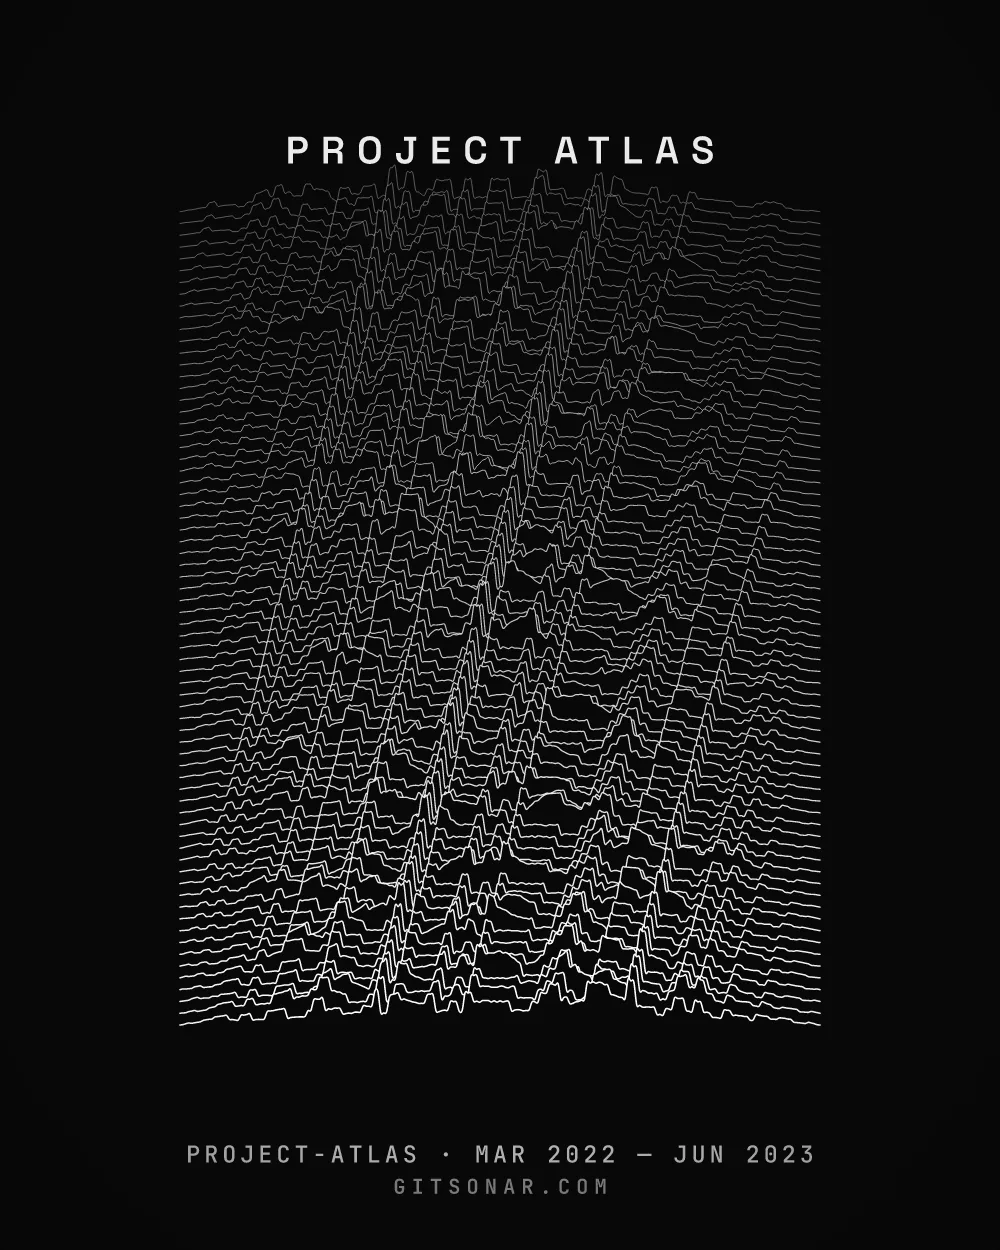
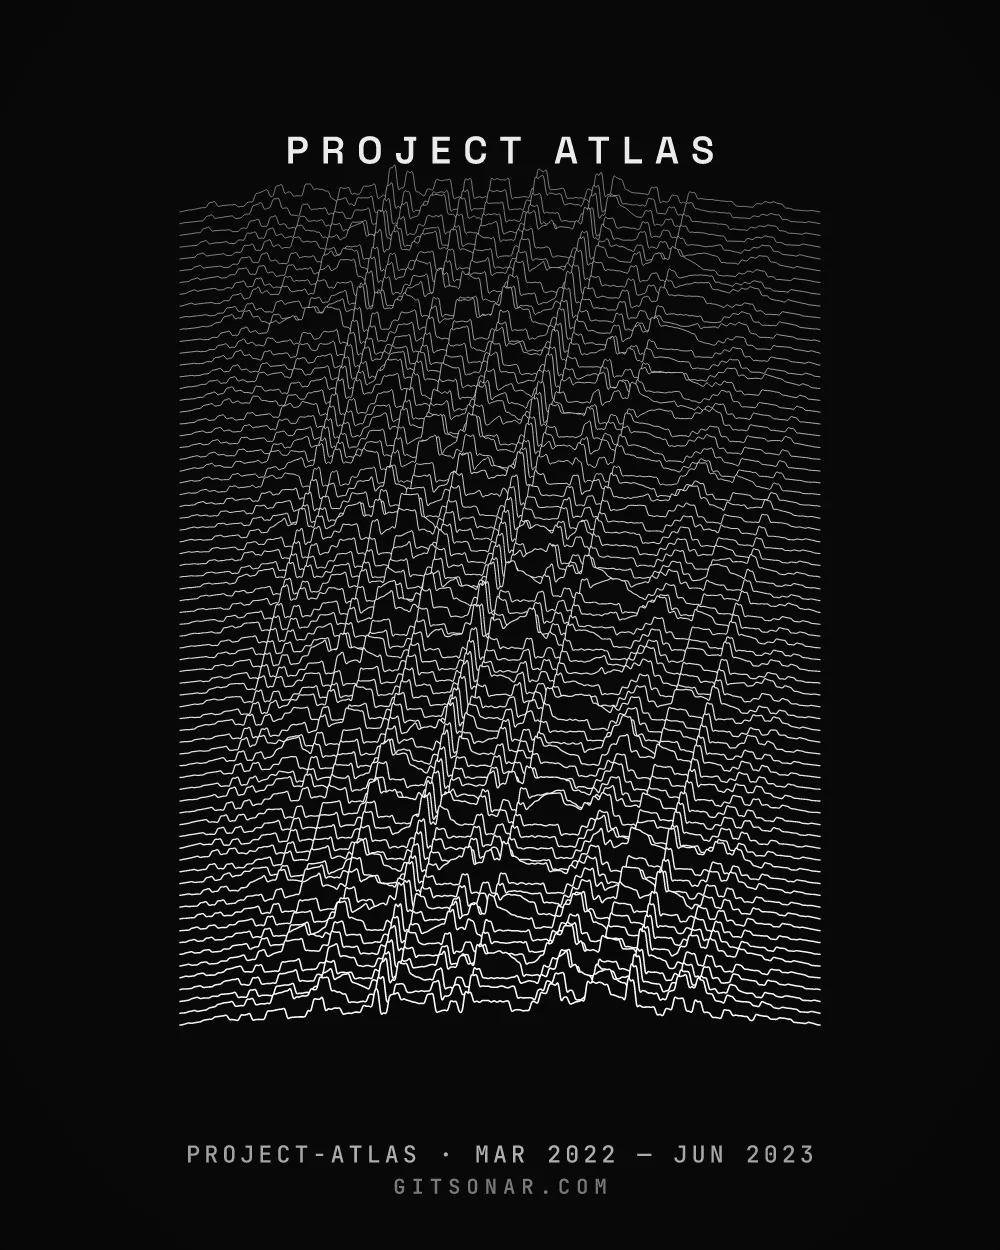
ui-hill-climb: round 8
Blind A/B (Claude Opus 5.5, fresh context): 7 views preferred, 6 not; the six are reverted in round 9.

diff --git a/src/styles/studio.css b/src/styles/studio.css
@@ -151,8 +151,26 @@ html[data-lights="off"] .ps-thumb__art {
   transition: transform 0.65s var(--ease-out);
 }
 
+/* "On the bench": a pale work surface runs along the bottom of the booth, with
+   the shadow line where it meets the back wall. */
+.ps-stage::before {
+  content: "";
+  position: absolute;
+  inset: auto 0 5.5rem 0;
+  height: 17%;
+  background:
+    linear-gradient(180deg, rgba(20, 22, 24, 0.22), rgba(20, 22, 24, 0) 0.7rem),
+    linear-gradient(180deg, rgba(255, 255, 255, 0.34), rgba(255, 255, 255, 0.12));
+  transition: opacity 0.4s ease;
+}
+
+.is-wall .ps-stage::before {
+  opacity: 0;
+}
+
 .ps-canvas {
   display: block;
+  position: relative;
   box-shadow: 0 1.8rem 3.2rem rgba(20, 22, 24, 0.38), 0 0.25rem 0.6rem rgba(20, 22, 24, 0.35);
 }
 
@@ -358,20 +376,27 @@ html[data-lights="off"] .is-wall .ps-stage {
   background: rgba(var(--paper-rgb), 0.9);
 }
 
-.ps-framing label {
-  display: flex;
-  align-items: center;
-  gap: 0.35rem;
-  font-size: 0.82rem;
-  font-weight: 600;
+.ps-framing__sep {
+  width: 1px;
+  margin: 0.3rem 0.2rem;
+  background: var(--line-2);
 }
 
-.ps-framing label.is-off {
-  opacity: 0.45;
+.ps-framing .g-seg button:disabled {
+  opacity: 0.4;
+  cursor: not-allowed;
 }
 
-.ps-framing input {
-  accent-color: var(--ink);
+/* Controls mounted on the stage keep their daylight look after hours,
+   because the viewing booth they sit on does not change. */
+.ps-where,
+.ps-framing {
+  --seg: #e6e8e3;
+  --raised: #fff;
+  --ink: #16181a;
+  --ink-2: #353a3d;
+  --line-2: #b9bdb8;
+  --paper-rgb: 247, 247, 244;
 }
 
 .ps-wallnote {
@@ -979,8 +1004,8 @@ html[data-lights="off"] .ps-checks input:checked::after {
   /* Short enough that the style strip and the first controls show beneath it. */
   /* Sized so the first screen is whole: stage, style strip, then the bar. */
   .ps-stage {
-    height: calc(100dvh - 24.9rem);
-    min-height: 20rem;
+    height: calc(100dvh - 27.6rem);
+    min-height: 19rem;
   }
 
   .ps-rail {
@@ -996,17 +1021,16 @@ html[data-lights="off"] .ps-checks input:checked::after {
     padding: 0.4rem 0.4rem 0.6rem;
     margin: 0 -0.4rem;
     align-items: flex-start;
-    /* The strip fades at its right edge: there is more to swipe to. */
-    mask-image: linear-gradient(90deg, #000 calc(100% - 1.4rem), transparent);
   }
 
   .ps-vars__label {
     display: none;
   }
 
+  /* Sized so a fifth style always peeks in from the right. */
   .ps-thumb {
     flex: none;
-    width: 5.1rem;
+    width: 4.7rem;
   }
 
   .ps-thumb__name {

diff --git a/src/components/PosterStudio.tsx b/src/components/PosterStudio.tsx
@@ -79,7 +79,7 @@ const WALL = {
     centre: 57,
     bench: { w: 60, h: 18 },
     /** Visible strip of floor under the bench, in px. */
-    floorPx: 34,
+    floorPx: 60,
 };
 type FrameStyle = 'none' | 'black' | 'oak' | 'white';
 const FRAMES: { id: FrameStyle; label: string; color: string }[] = [
@@ -412,7 +412,7 @@ export function PosterStudio() {
         const { scene } = result;
         // The easel is the stage minus the tray; leave air around the sheet.
         const stageW = stage.clientWidth - 56;
-        const stageH = stage.clientHeight - TRAY_H - STAGE_TOP - 28;
+        const stageH = stage.clientHeight - TRAY_H - STAGE_TOP - 52;
         if (stageW <= 0 || stageH <= 0) return;
         const aspect = scene.width / scene.height;
         let scale = Math.min(stageW / scene.width, stageH / scene.height);
@@ -650,7 +650,7 @@ export function PosterStudio() {
     }, [graph]);
 
     // Only show the label when there is bare stage beside the sheet for it.
-    const benchW = Math.min(fit.stageW - 56, (fit.stageH - TRAY_H - STAGE_TOP - 28) * fit.aspect);
+    const benchW = Math.min(fit.stageW - 56, (fit.stageH - TRAY_H - STAGE_TOP - 52) * fit.aspect);
     const plaqueFits = (fit.stageW - benchW) / 2 >= 250;
 
     // "On a wall": a gallery elevation at true scale. The sheet hangs with its
@@ -770,10 +770,9 @@ export function PosterStudio() {
                         {FRAMES.map((f) => (
                             <button key={f.id} type="button" tabIndex={onWall ? 0 : -1} aria-pressed={frame === f.id} onClick={() => setFrame(f.id)}>{f.label}</button>
                         ))}
+                        <span className="ps-framing__sep" aria-hidden="true" />
+                        <button type="button" tabIndex={onWall ? 0 : -1} aria-pressed={framed && mat} disabled={!framed} onClick={() => setMat((v) => !v)}>Mat</button>
                     </div>
-                    <label className={framed ? '' : 'is-off'}>
-                        <input type="checkbox" tabIndex={onWall ? 0 : -1} checked={mat} disabled={!framed} onChange={(e) => setMat(e.target.checked)} /> Mat
-                    </label>
                 </div>
                 <p className="ps-wallnote" aria-hidden={!onWall}>{sizeLabel}, hung at gallery height</p>
 

diff --git a/src/styles/app.css b/src/styles/app.css
@@ -221,7 +221,7 @@ body[data-view-mode="calendar"] .controls-bar {
   gap: clamp(2rem, 6vw, 6rem);
   align-items: start;
   /* Auto margins centre it when there is room and never clip it when there is not. */
-  width: min(72rem, calc(100% - 2.5rem));
+  width: min(80rem, calc(100% - 2.5rem));
   min-width: 0;
   margin: auto;
   padding: 2.5rem 0 3rem;
@@ -545,6 +545,7 @@ body[data-view-mode="calendar"] .controls-bar {
 .desk__ask {
   position: relative;
   z-index: 1;
+  max-width: 46rem;
 }
 
 /* Before a repo is loaded the whole screen is the wall, header included. */
@@ -556,7 +557,7 @@ body[data-view-mode="calendar"] .controls-bar {
 
 .app:has(.app-views[hidden]) .app-header {
   /* The wordmark lines up with the column below it. */
-  padding-inline: max(1.25rem, calc((100% - 72rem) / 2));
+  padding-inline: max(1.25rem, calc((100% - 80rem) / 2));
   background: transparent;
   border-bottom-color: transparent;
 }
@@ -579,6 +580,11 @@ body[data-view-mode="calendar"] .controls-bar {
 
   .desk__wall {
     max-width: 14rem;
+  }
+
+  /* On a narrow screen the frame appears only while a repo is being read. */
+  .desk__wall:not(:has(.desk__mat.is-busy)) {
+    display: none;
   }
 }
 

diff --git a/src/components/ImportPanel.tsx b/src/components/ImportPanel.tsx
@@ -352,7 +352,7 @@ export function ImportPanel() {
         <div className="desk__alts">
           <button type="button" onClick={openFolder} disabled={isLoading}>
             <b>Open a folder on this computer</b>
-            <span>Pick the project folder. No zipping, and it works offline.</span>
+            <span>No zipping, and it works offline.</span>
           </button>
           <button type="button" onClick={loadSample} disabled={isLoading}>
             <b>Use the sample repo</b>

diff --git a/src/lib/art/templates/pulsar.ts b/src/lib/art/templates/pulsar.ts
@@ -112,7 +112,7 @@ function build(ctx: TemplateContext): Scene {
         ];
 
         // Fade the farthest rows slightly so the stack recedes into the dark.
-        const lineAlpha = 0.45 + 0.55 * rowFrac;
+        const lineAlpha = 0.62 + 0.38 * rowFrac;
         const lineW = (0.9 + 1.1 * rowFrac) * encoding.weightScale;
 
         // Push far-to-near: top rows (r small) first, so each later (lower)
